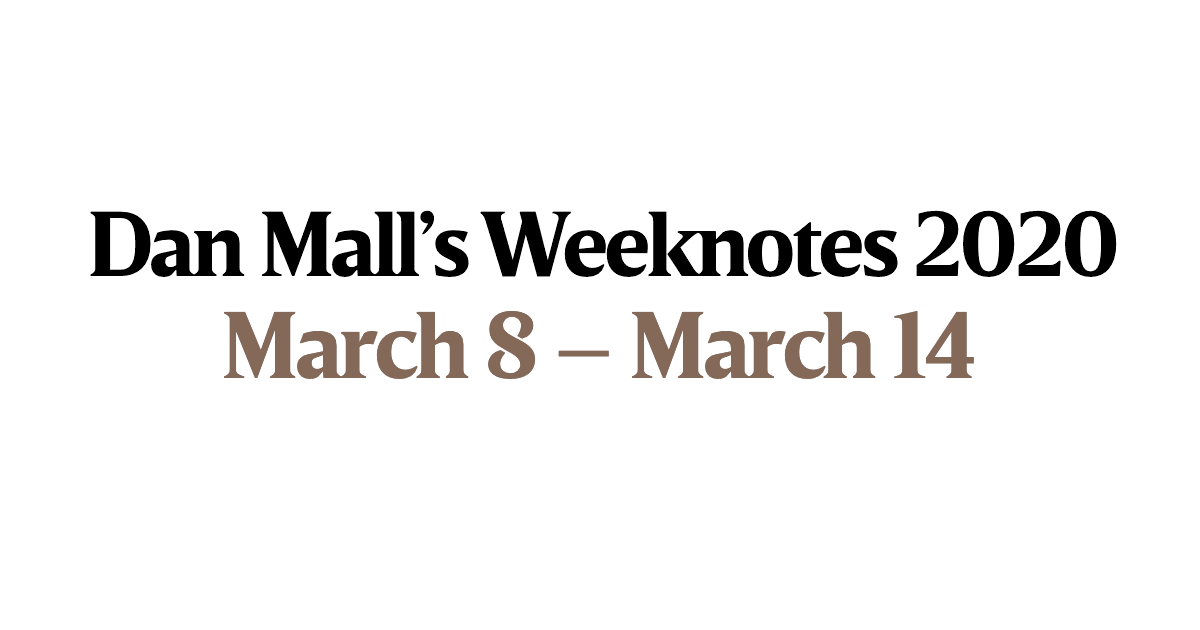
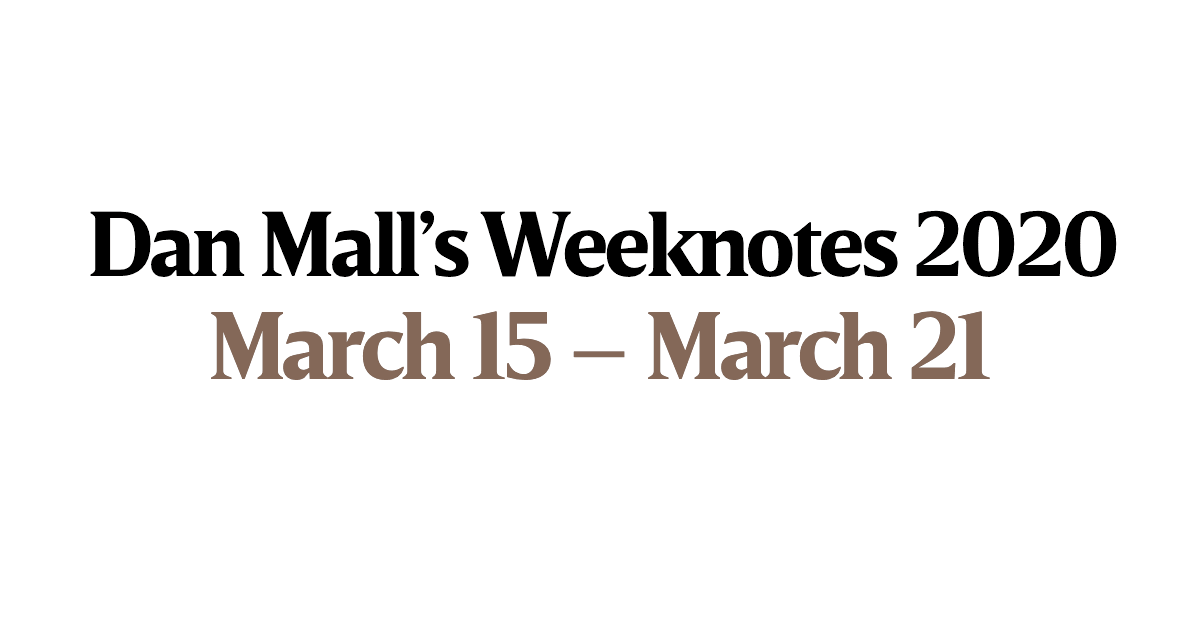
Weeknotes March 15 2020 fixing og thumb

Changed region(s): [[0.1542, 0.4825, 0.8325, 0.6032]]

diff --git a/articles/weeknotes-2020-03-08/index.php b/articles/weeknotes-2020-03-08/index.php
@@ -79,6 +79,7 @@
                 <ol>
                     <li><a href="https://twitter.com/Jahwnie">Jon Mall</a> and I <a href="https://twitter.com/danmall/status/1238617097447620609">got tattoos</a> in memory of our grandfather</li>
                     <li>I shot photos at <a href="https://www.instagram.com/p/B9o_xD3p-FK/">Portland Head Light</a> and <a href="https://www.instagram.com/p/B9w_Nn1JZ60/">Old Orchard Beach</a></li>
+                    <li>Pooped in the woods</li>
                     <li>Ate at <a href="https://www.mistralprinceton.com/">Mistral</a> with <a href="http://emilymall.me/">Em</a> and Jeff and Sharon Clark</li>
                     <li>Ate at <a href="http://www.miyakerestaurants.com/miyake">Miyake</a>, <a href="http://www.forestreet.biz/">Fore Street</a>, and <a href="https://www.fiveguys.com/">Five Guys</a> with Jon Mall</li>
                     <li>Coronavirus news got real. <a href="https://www.theatlantic.com/family/archive/2020/03/coronavirus-what-does-social-distancing-mean/607927/">Social distancing</a> is the recommended containment strategy. The kids&rsquo; school is closed.</li> 
